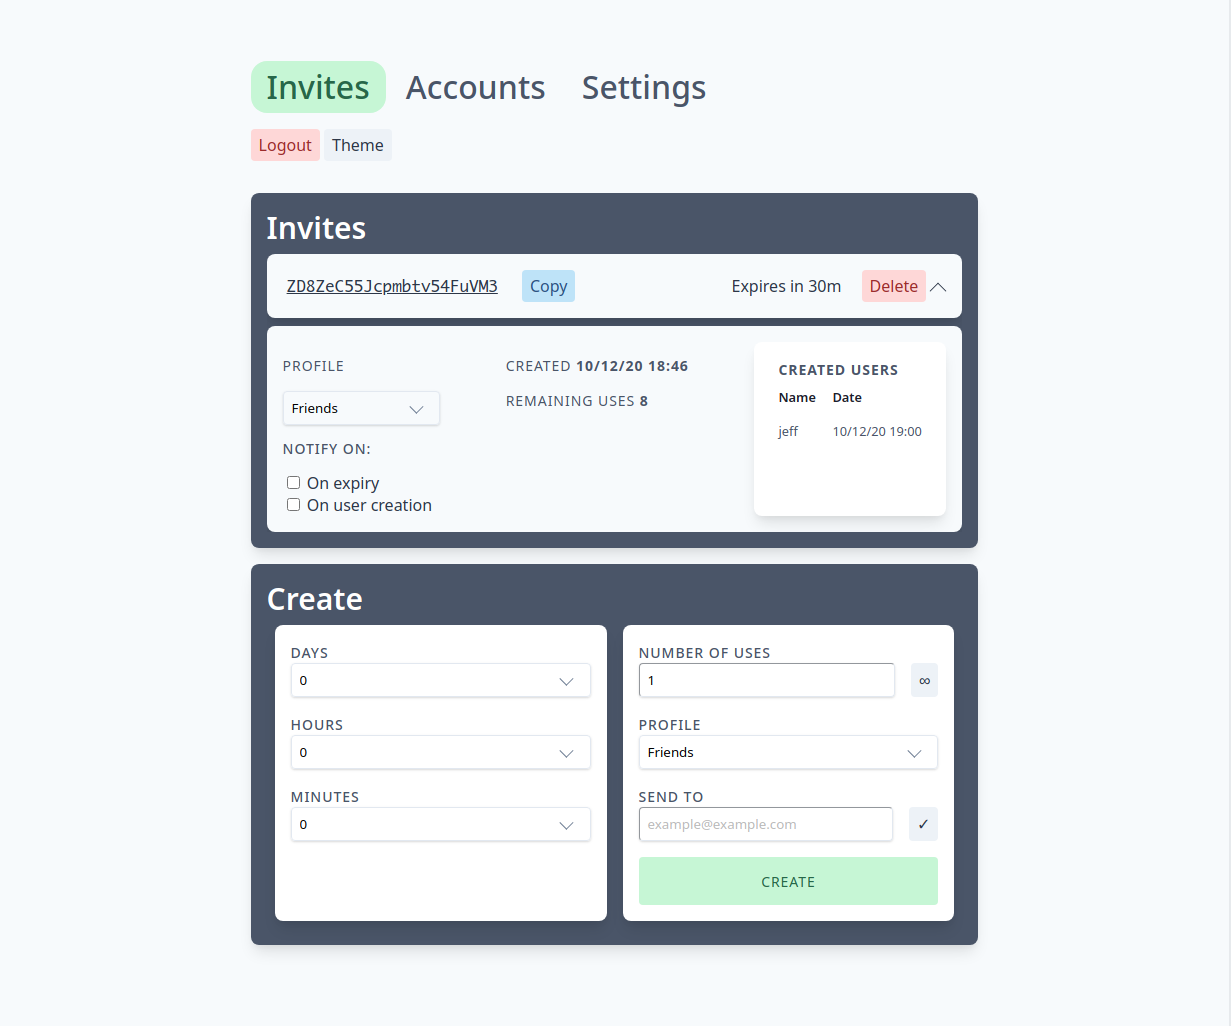
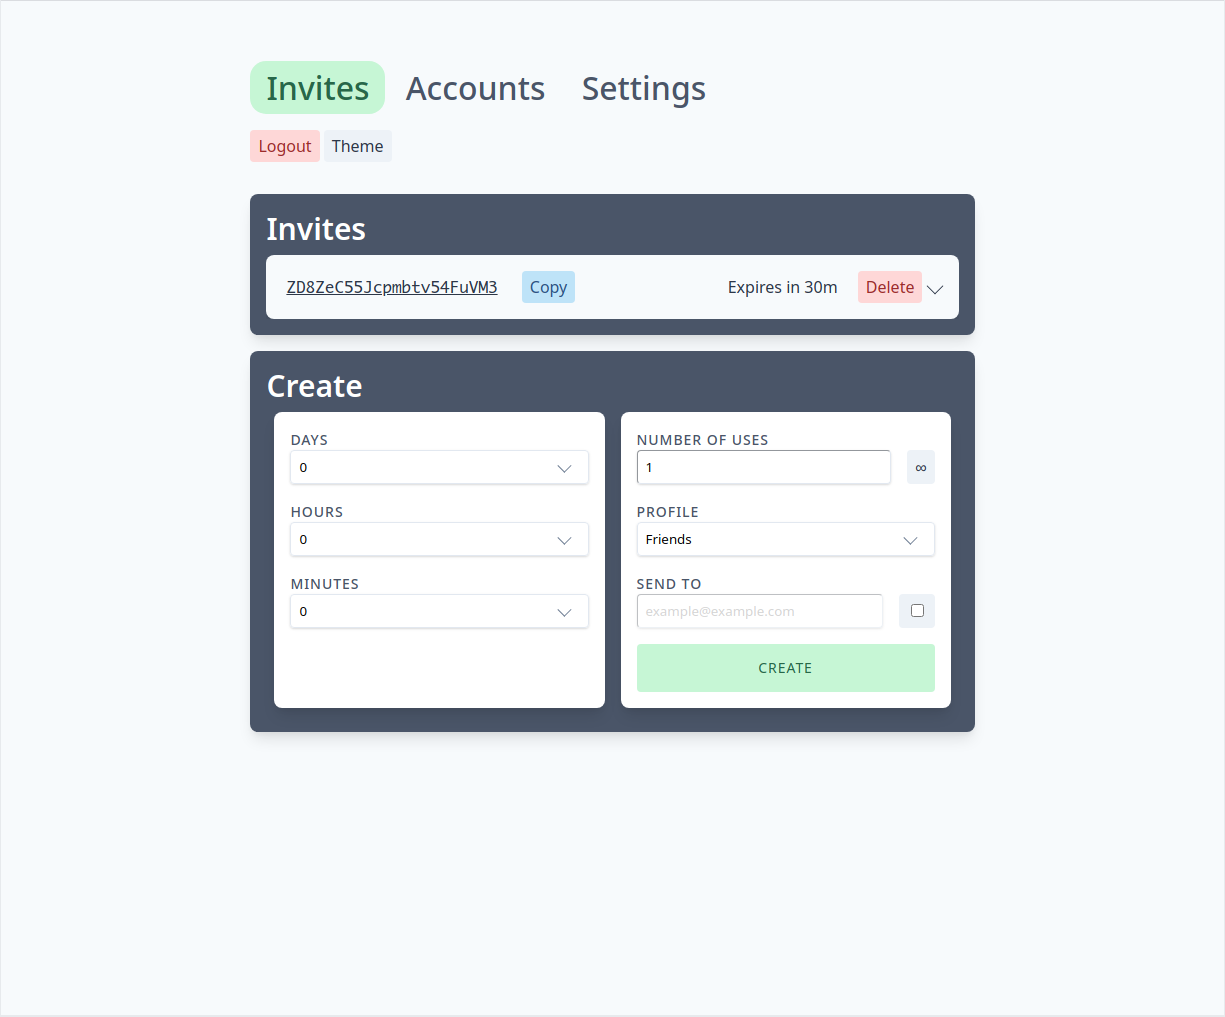
add settings; images

Changed region(s): [[0.1861, 0.1829, 0.8065, 0.9449], [0.2171, 0.061, 0.4343, 0.1524], [0.4653, 0.061, 0.5894, 0.1219]]

diff --git a/index.html b/index.html
@@ -34,6 +34,9 @@
             .mb-1 {
                 margin-bottom: 1rem;
             }
+            .mb-half {
+                margin-bottom: 0.5rem;
+            }
             .pb-1 {
                 padding-bottom: 1rem;
             }
@@ -48,6 +51,9 @@
             }
             .mb-2 {
                 margin-bottom: 2rem;
+            }
+            .mt-half {
+                margin-top: 0.5rem;
             }
             .inv-codearea {
                 /*width: 40%;*/
@@ -210,8 +216,29 @@
                 max-width: 50%;
             
             }
-
-
+            .settings-section-button {
+                box-sizing: border-box;
+                width: 100%;
+                height: 2.5rem;
+                --button-filter-brightness: 90%;
+            }
+            .settings-section-button.selected {
+                --button-filter-brightness: 85%;
+                filter: brightness(85%);
+            }
+            .text-critical {
+                color: var(--color-critical-normal-content);
+            }
+            .aside.small {
+                font-size: 0.8rem;
+                padding: 0.8rem;
+            }
+            .setting {
+                margin-bottom: 0.25rem;
+            }
+            .support.large {
+                font-size: 1rem;
+            }
 
         </style>
         <title>{{ .lang.pageTitle }}</title>
@@ -221,9 +248,9 @@
             <div class="relative mb-1">
                 <header class="flex flex-wrap items-center justify-between">
                     <div class="text-neutral-700">
-                        <span class="tabText portal ~positive active">Invites</span>
-                        <span class="tabText portal">Accounts</span>
-                        <span class="tabText portal">Settings</span>
+                        <span id="invitesTab-button" class="tabText portal ~positive active">Invites</span>
+                        <span id="accountsTab-button" class="tabText portal">Accounts</span>
+                        <span id="settingsTab-button" class="tabText portal">Settings</span>
                     </div>
                 </header>
             </div>
@@ -349,15 +376,15 @@
                     </div>
                 </div>
             </div>
-            <div id="accountsTab">
+            <div id="accountsTab" class="unfocused">
                 <div class="card ~neutral !high accounts mb-1">
                     <span class="heading">Accounts</span>
+                    <div class="fr">
+                        <span class="button ~neutral !normal" id="accounts-add-user">Add User</span>
+                        <span class="button ~positive !normal" id="accounts-modify-user">Modify Settings</span>
+                        <span class="button ~critical !normal" id="accounts-delte-user">Delete User</span>
+                    </div>
                     <div class="card ~neutral !normal accounts-header mt-half">
-                        <div class="fr">
-                            <span class="button ~neutral !normal" id="accounts-add-user">Add User</span>
-                            <span class="button ~positive !normal" id="accounts-modify-user">Modify Settings</span>
-                            <span class="button ~critical !normal" id="accounts-delte-user">Delete User</span>
-                        </div>
                         <table class="table">
                             <thead>
                                 <tr>
@@ -374,13 +401,54 @@
                                     <td><i class="icon icon-edit"></i><input type="email" class="input ~neutral !normal stealth-input stealth-input-hidden" value="email@addr.ess" readonly></td>
                                     <td>13/12/20 00:39</td>
                                 </tr>
+                                <tr>
+                                    <td><input type="checkbox" value=""></td>
+                                    <td>Other person</td>
+                                    <td><i class="icon icon-edit"></i><input type="email" class="input ~neutral !normal stealth-input stealth-input-hidden" value="eee@ma.il" readonly></td>
+                                    <td>12/12/20 17:46</td>
+                                </tr>
                             </tbody>
                         </table>
                     </div>
                 </div>
-
-
             </div>
+            <div id="settingsTab">
+                <div class="card ~neutral !high settings">
+                    <span class="heading">Settings</span>
+                    <div class="row">
+                        <div class="card ~neutral !normal col">
+                            <aside class="aside small ~info mb-half">Note: <sup class="text-critical">*</sup> indicates a required field, <sup class="text-critical">R</sup> indicates changes require a restart.</aside> 
+                            <span class="button ~neutral !normal settings-section-button mb-half">About</span>
+                            <span class="button ~neutral !normal settings-section-button mb-half selected">User Profiles</span>
+                        </div>
+                        <div class="card ~neutral !low col">
+                            <div class="settings-section">
+                                <p class="support large mb-half">Settings section description.</p>
+                                <div class="setting">
+                                    <label class="label" for="settings-select">Select <sup class="text-critical">R</sup></label>
+                                    <div class="select ~neutral !normal mt-half">
+                                        <select id="settings-select">
+                                            <option>Option 1</option>
+                                        </select>
+                                    </div>
+                                </div>
+                                <div class="setting">
+                                    <label class="label" for="settings-input">Input <sup class="text-critical">*</sup></label>
+                                    <input type="text" class="input ~neutral !normal mt-half" placeholder="Value">
+                                </div>
+                                <div class="setting">
+                                    <label class="switch settings">
+                                        <input type="checkbox" id="settings-check">
+                                        <span>Checkbox <sup class="text-critical">R</sup></span>
+                                    </label>
+                                </div>
+                            </div>
+
+                        </div>
+                    </div>
+                </div>
+            </div>
+
         </div>
         <script>
             const whichTransitionEvent = () => {
@@ -483,9 +551,25 @@
 
             loadAccounts();
 
-                    
 
+            tabs = ["invitesTab", "accountsTab", "settingsTab"]
+            for (let tab of tabs) {
+                document.getElementById(`${tab}-button`).onclick = function () {
+                    for (let t of tabs) {
+                        const tabEl = document.getElementById(t);
+                        const tabButtonEl = document.getElementById(`${t}-button`);
+                        if (t == tab) {
+                            tabButtonEl.classList.add("active", "~positive");
+                            tabEl.classList.remove("unfocused");
+
+                        } else {
+                            tabButtonEl.classList.remove("active");
+                            tabButtonEl.classList.remove("~positive");
+                            tabEl.classList.add("unfocused");
+                        }
+                    }
+                }
+            }
         </script>
     </body>
 </html>
-

diff --git a/README.md b/README.md
@@ -2,10 +2,15 @@ This branch is for experimenting with [a17t](https://a17t.miles.land/) to possib
 
 #### currently done:
 - [x] invites tab mockup (partially complete)
-- [ ] accounts tab mockup
-- [ ] settings tab mockup
+- [x] accounts tab mockup
+- [x] settings tab mockup
 - [ ] modals (may not use them at all, who knows)
 - [ ] animations
 
 #### screenshots
-![invites](images/invites.png)
+<p>
+    <img src="images/invites.png" alt="invites" style="width: 32%; height: auto;">
+    <img src="images/accounts.png" alt="accounts" style="width: 32%; height: auto;">
+    <img src="images/settings.png" alt="settings" style="width: 32%; height: auto;">
+</p>
+
